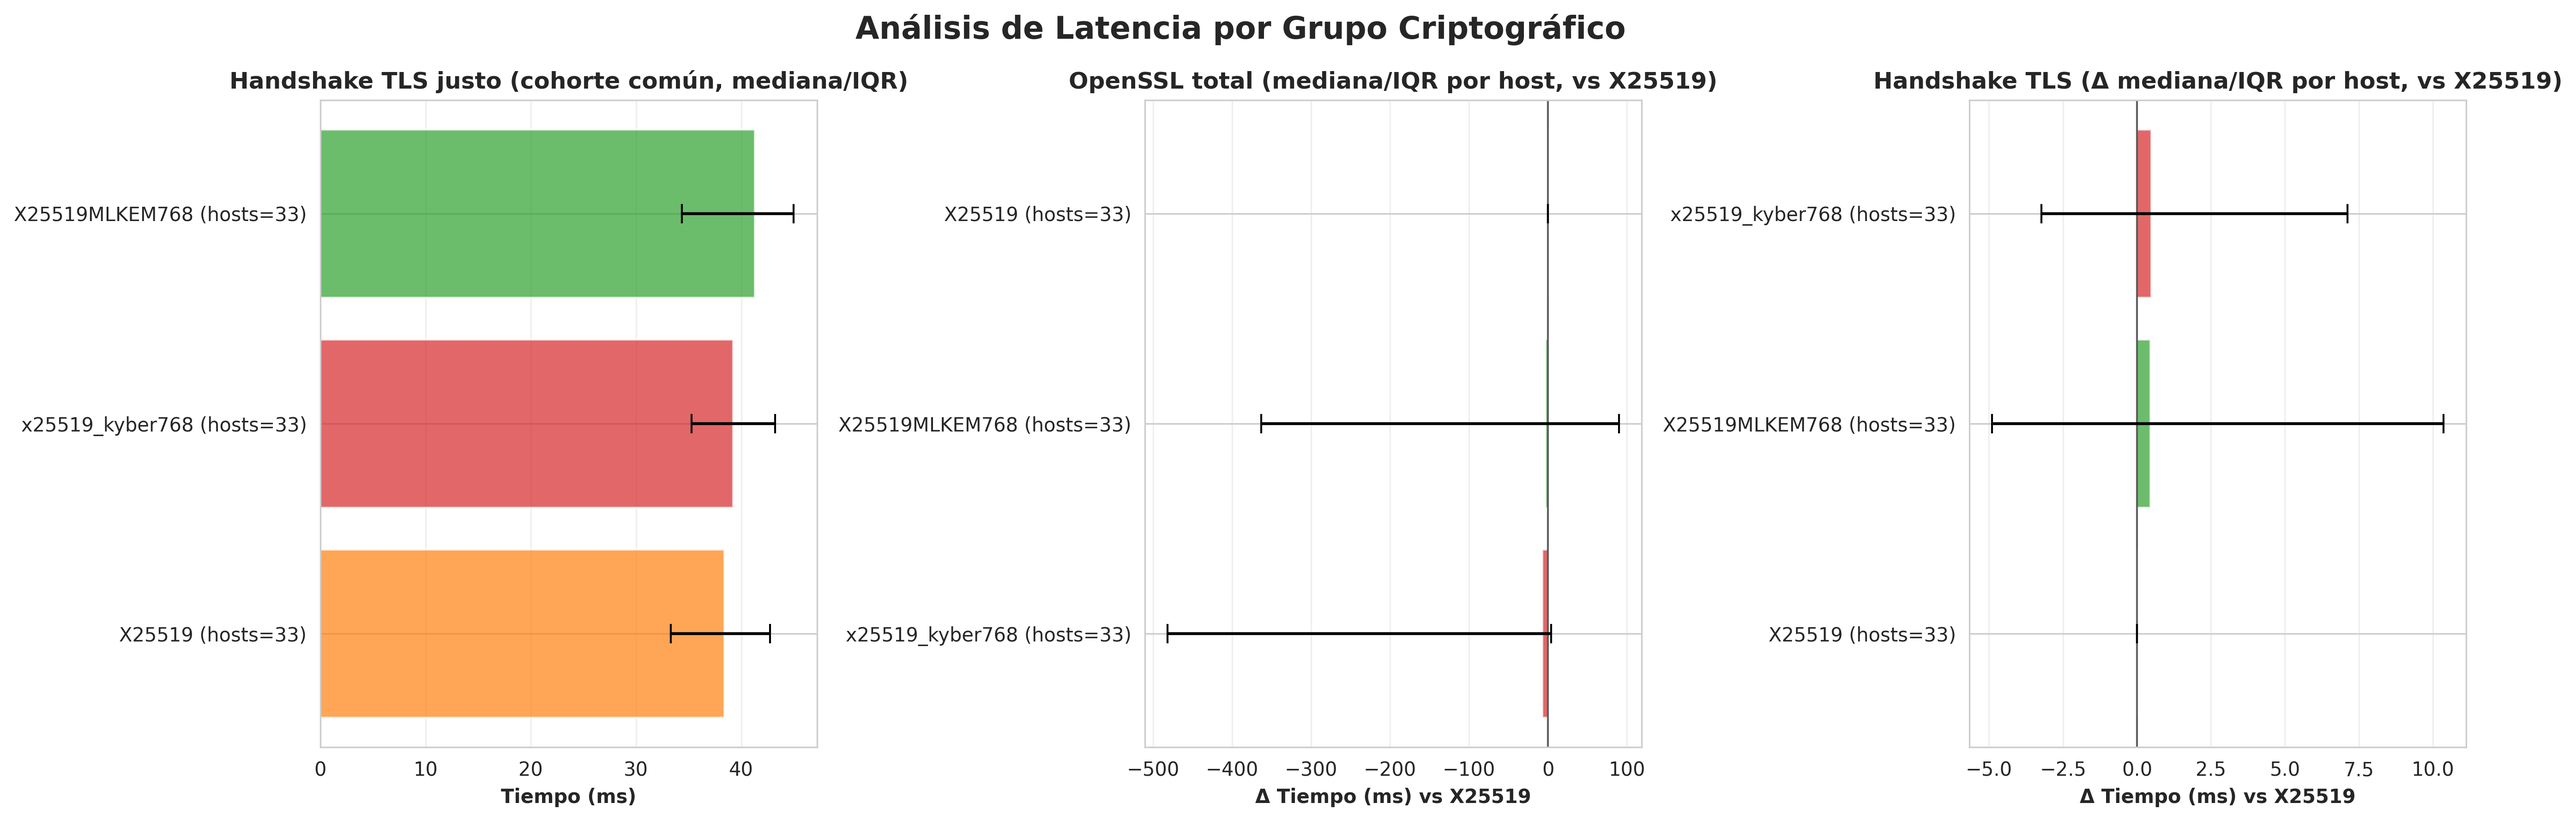
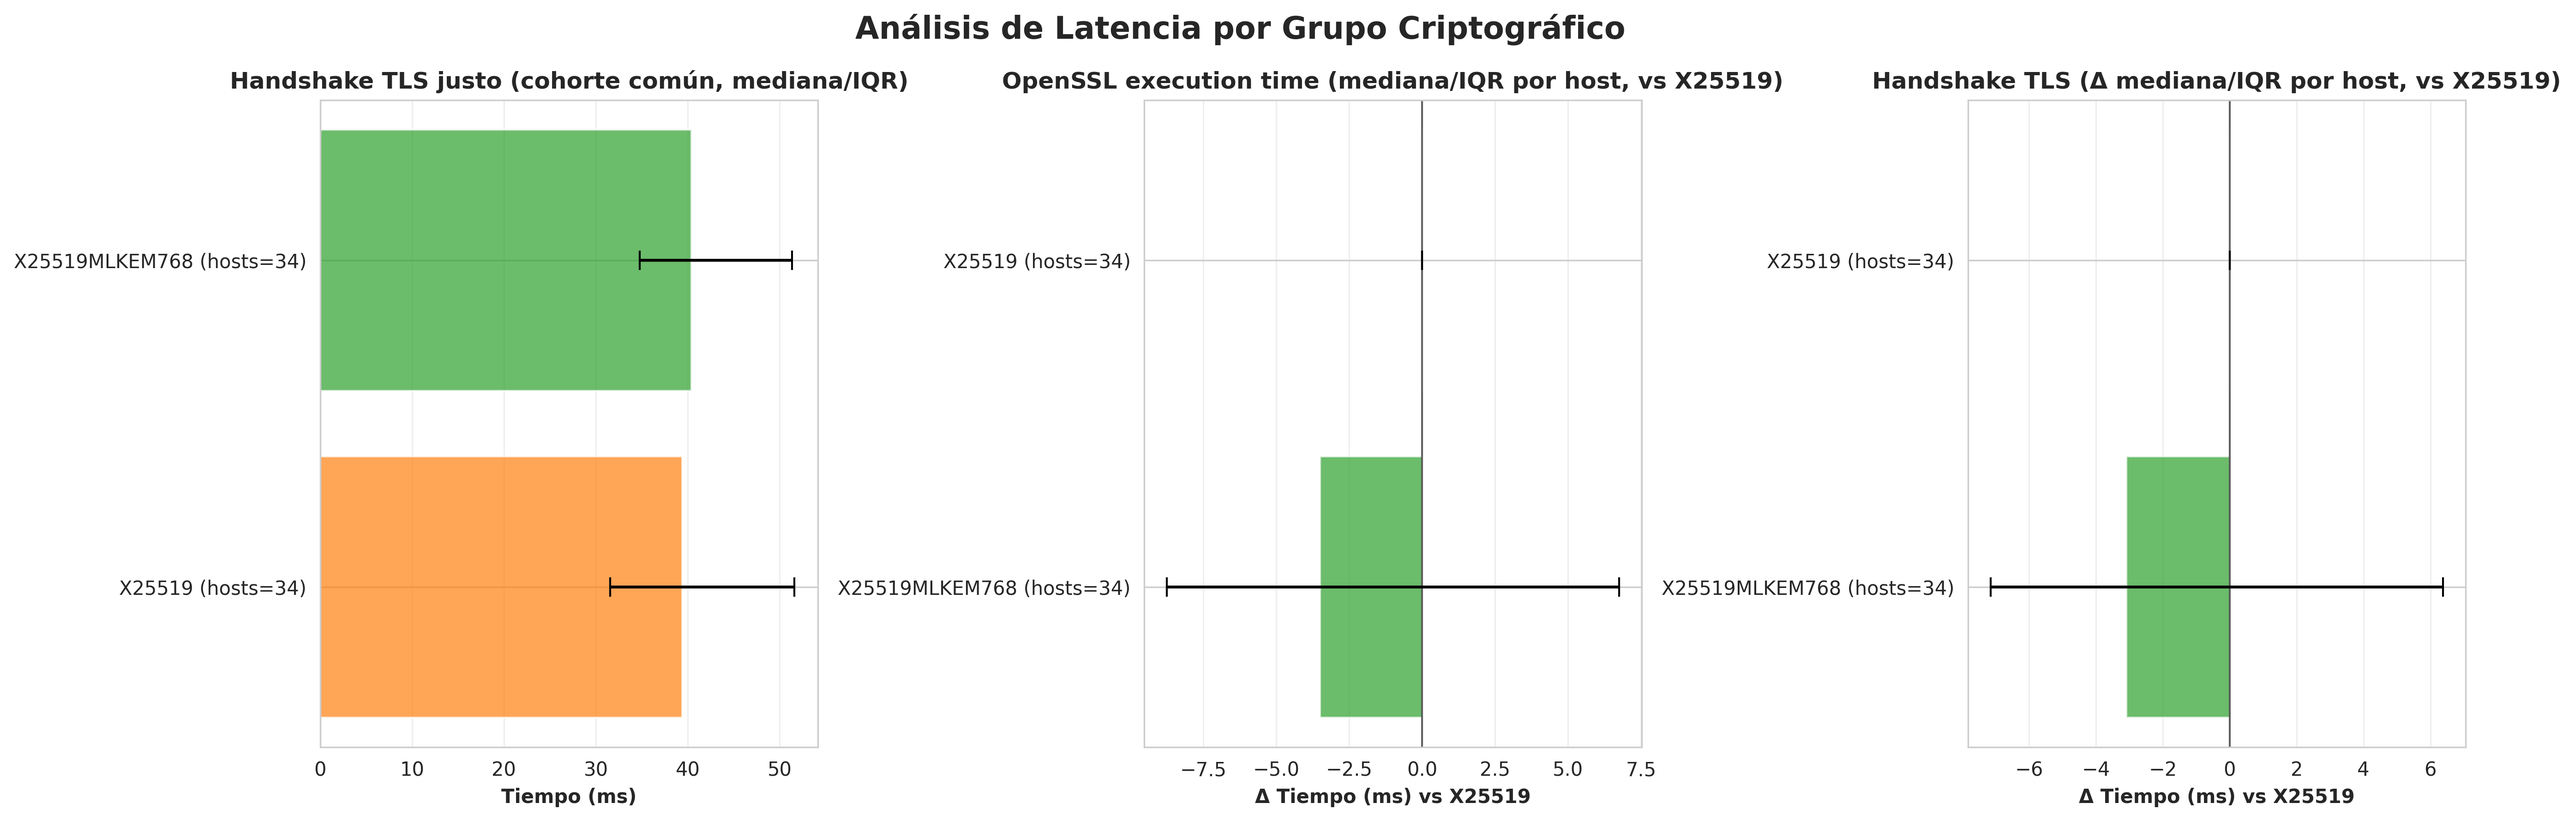
Issue 2. tiempo_conexion_sin_dns_ms es un alias, no una resta (solucionado)

diff --git a/scripts/ml/analizar_resultados.py b/scripts/ml/analizar_resultados.py
@@ -341,7 +341,10 @@ def cargar_y_procesar():
     # Nota: tiempo_conexion_segundos se mide alrededor de la ejecución de OpenSSL,
     # por lo que ya excluye el pre-check DNS en la ruta normal.
     df['tiempo_total_ms'] = df['tiempo_conexion_segundos'] * 1000
-    df['tiempo_conexion_sin_dns_ms'] = df['tiempo_total_ms']
+    # Nombre explícito para evitar la interpretación errónea de "total - dns"
+    df['openssl_execution_time_ms'] = df['tiempo_total_ms']
+    # Alias legacy (compatibilidad temporal con artefactos/scripts antiguos)
+    df['tiempo_conexion_sin_dns_ms'] = df['openssl_execution_time_ms']
     # Referencia opcional: aproximación end-to-end incluyendo DNS cuando exista.
     df['tiempo_total_con_dns_ms'] = df['tiempo_total_ms'] + df['dns_time_ms']
     
@@ -570,12 +573,12 @@ def graficar_latencia(df, output_dir, df_ranking=None):
         axes[0].set_title('Tiempo de Handshake TLS (mediana)', fontweight='bold')
     axes[0].grid(axis='x', alpha=0.3)
 
-    # Delta robusto por hostname vs X25519 para OpenSSL total (sin DNS precheck)
+    # Delta robusto por hostname vs X25519 para tiempo de ejecución de OpenSSL
     # Se aplica la misma lógica de grupos concluyentes + cohorte común que en Handshake TLS justo.
     usar_cohorte_comun = bool(grupos_concluyentes) and len(hosts_comunes_concluyentes) >= min_hostnames_concluyente
     delta_sin_dns = resumen_delta_vs_clasico_restringido(
         df,
-        'tiempo_conexion_sin_dns_ms',
+        'openssl_execution_time_ms',
         grupo_clasico='X25519',
         grupos_permitidos=grupos_concluyentes if grupos_concluyentes else None,
         hosts_permitidos=hosts_comunes_concluyentes if usar_cohorte_comun else None,
@@ -596,14 +599,14 @@ def graficar_latencia(df, output_dir, df_ranking=None):
         )
         axes[1].axvline(0, color='black', linewidth=1, alpha=0.6)
         axes[1].set_xlabel('Δ Tiempo (ms) vs X25519', fontweight='bold')
-        axes[1].set_title('OpenSSL total (mediana/IQR por host, vs X25519)', fontweight='bold')
+        axes[1].set_title('OpenSSL execution time (mediana/IQR por host, vs X25519)', fontweight='bold')
 
         delta_sin_dns_path = output_dir / 'delta_open_ssl_vs_x25519.csv'
         delta_sin_dns.to_csv(delta_sin_dns_path, index=False)
         logger.info(f"✓ Guardado: {delta_sin_dns_path}")
     else:
         axes[1].text(0.5, 0.5, 'Sin datos comparables para delta vs X25519', ha='center', va='center', transform=axes[1].transAxes)
-        axes[1].set_title('OpenSSL total (vs X25519)', fontweight='bold')
+        axes[1].set_title('OpenSSL execution time (vs X25519)', fontweight='bold')
     axes[1].grid(axis='x', alpha=0.3)
 
     # Delta robusto por hostname vs X25519 para handshake TLS
@@ -744,7 +747,7 @@ def main():
     columnas_outliers = [
         'tcp_time_ms',
         'handshake_time_ms',
-        'tiempo_conexion_sin_dns_ms',
+        'openssl_execution_time_ms',
         'tiempo_conexion_segundos',
         'bytes_sent',
         'bytes_received',

diff --git a/README.md b/README.md
@@ -666,6 +666,11 @@ Esta sección describe para **cada métrica**: cómo se obtiene, qué significa 
 - **Qué significa:** duración total de la prueba por grupo.
 - **Utilidad:** KPI global de rendimiento percibido.
 
+### `openssl_execution_time_ms`
+- **Cómo se obtiene:** `tiempo_conexion_segundos * 1000`.
+- **Qué significa:** tiempo de ejecución de OpenSSL para la prueba TLS, ya sin pre-check DNS.
+- **Utilidad:** evitar ambigüedad metodológica frente al nombre legacy `tiempo_conexion_sin_dns_ms`.
+
 ---
 
 ## 7.3 Métricas de volumen (bytes)
